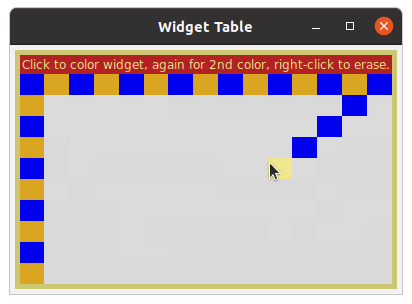
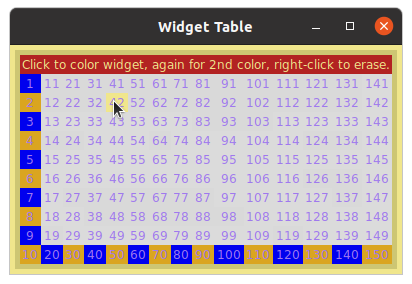
update README files

diff --git a/README.html b/README.html
@@ -59,7 +59,7 @@ Color table construction based on code from
 <h2 id="tk-mvc-template-py">tk-mvc-template.py</h2>
 <p>A template for setting up a tkinter application with an MVC architecture. Plenty of comments are provided to explain what is going on.</p>
 <h2 id="tk_widget_table-py">tk_widget_table.py</h2>
-<p>A template for contiguous gridding of widgets in a table format. The example uses blank Labels with each bound to functions for changing its background color. The method can easily be modified to use Buttons instead of Labels.
-Example: 15 x 10 table of labels, some having bg color defined with mouse clicks.
-<img src="images/widget_table.png" alt="widget-table"></p>
+<p>A template for positioning contiguous widgets in a table format where each Label is bound to various functions for changing its background color. The table drawing method can easily be modified to use Buttons instead of Labels.</p>
+<p>Example: 15 x 10 table of labels. Colors of one column and row were changed by mouse clicks. Text of labels was defined as serial digits during the table for-loop construction.</p>
+<p><img src="images/widget_table.png" alt="widget-table"></p>
 </html>

diff --git a/README.md b/README.md
@@ -67,6 +67,8 @@ Use Ctrl-G (or Command-G on MacOS), to pop up a non-interactive grayscale simula
 ## tk-mvc-template.py
 A template for setting up a tkinter application with an MVC architecture. Plenty of comments are provided to explain what is going on.
 ## tk_widget_table.py
-A template for contiguous gridding of widgets in a table format. The example uses blank Labels with each bound to functions for changing its background color. The method can easily be modified to use Buttons instead of Labels.
-Example: 15 x 10 table of labels, some having bg color defined with mouse clicks.
+A template for positioning contiguous widgets in a table format where each Label is bound to various functions for changing its background color. The table drawing method can easily be modified to use Buttons instead of Labels.
+
+Example: 15 x 10 table of labels. Colors of one column and row were changed by mouse clicks. Text of labels was defined as serial digits during the table for-loop construction.
+
 ![widget-table](images/widget_table.png)
